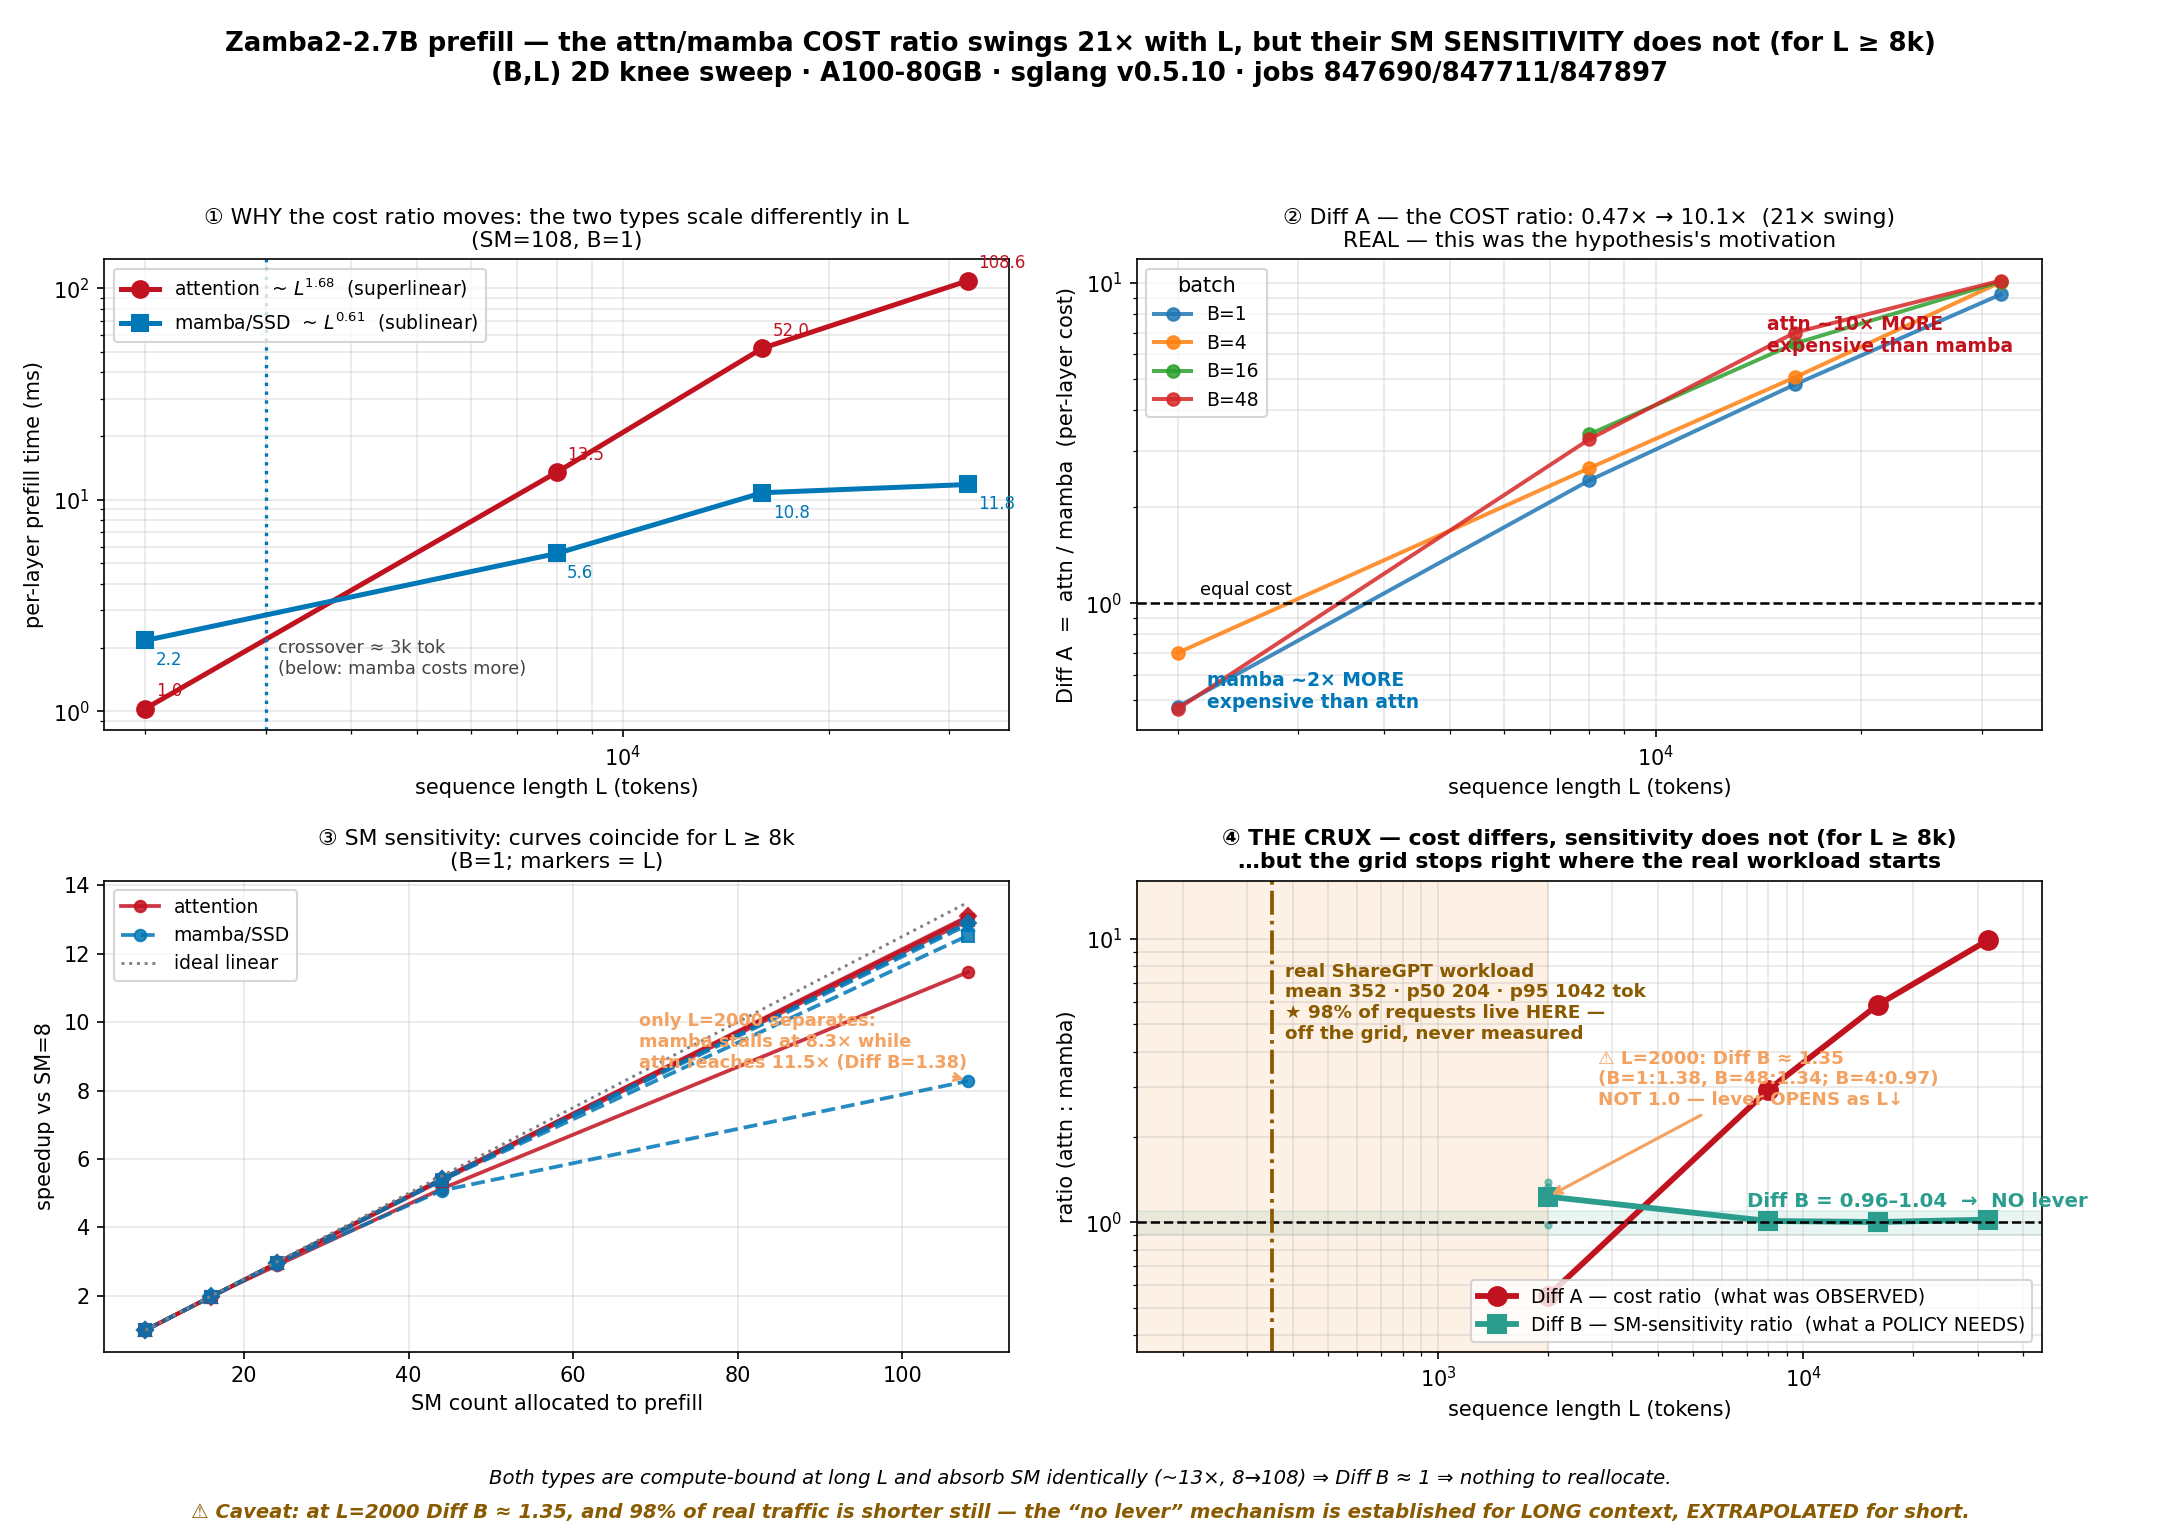
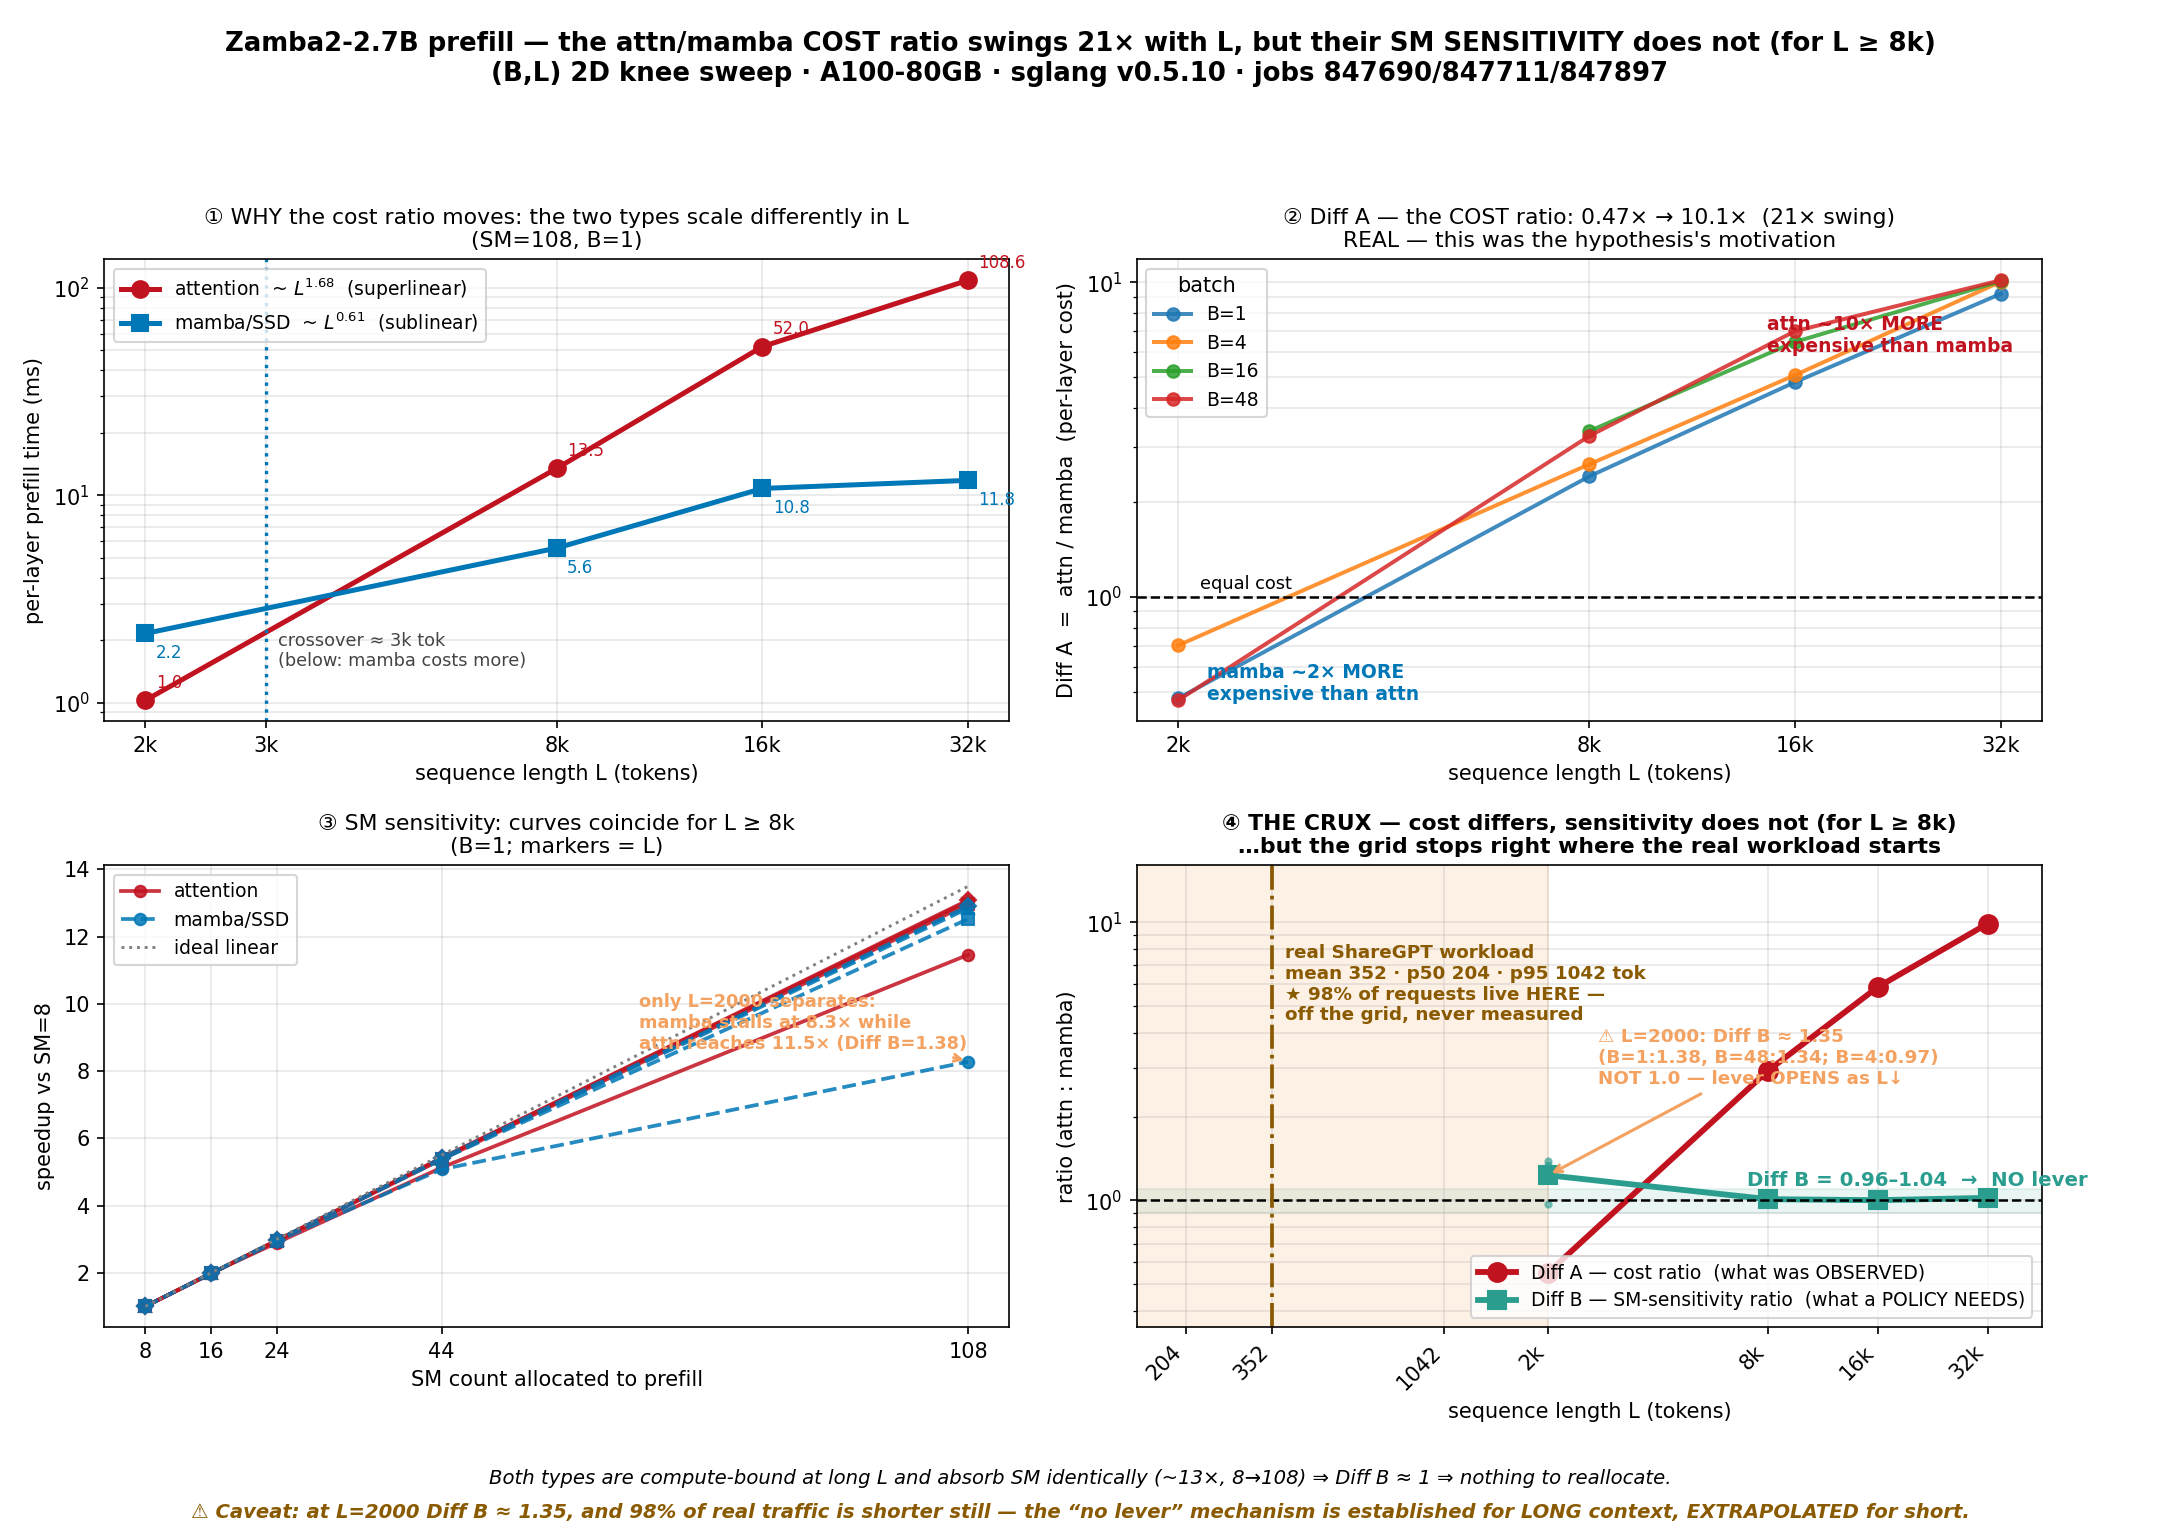
Enhance plotting functionality in plot_diffA_vs_diffB.py with custom tick formatting

diff --git a/workspace/engine-port/results/prefill_knee/plot_diffA_vs_diffB.py b/workspace/engine-port/results/prefill_knee/plot_diffA_vs_diffB.py
@@ -24,6 +24,18 @@ Source: knee2d_table.csv (jobs 847690/847711/847897), Zamba2-2.7B, A100-80GB, sg
 import csv, collections, math
 import matplotlib; matplotlib.use("Agg")
 import matplotlib.pyplot as plt
+from matplotlib.ticker import FixedLocator, NullLocator, FuncFormatter
+
+def _fmt(v):
+    return f"{v/1000:g}k" if v >= 1000 and v % 1000 == 0 else f"{v:g}"
+
+def tick_all(ax, vals, rot=0):
+    """Tick every measured anchor (log axes otherwise drop most of them)."""
+    ax.xaxis.set_major_locator(FixedLocator(list(vals)))
+    ax.xaxis.set_minor_locator(NullLocator())
+    ax.xaxis.set_major_formatter(FuncFormatter(lambda v, p: _fmt(v)))
+    if rot:
+        plt.setp(ax.get_xticklabels(), rotation=rot, ha="right")
 
 rows = list(csv.DictReader(open("knee2d_table.csv")))
 for r in rows:
@@ -64,6 +76,7 @@ a.annotate("crossover ≈ 3k tok\n(below: mamba costs more)", (3000, 1.5), fonts
 a.set_xlabel("sequence length L (tokens)"); a.set_ylabel("per-layer prefill time (ms)")
 a.set_title("① WHY the cost ratio moves: the two types scale differently in L\n(SM=108, B=1)", fontsize=10.5)
 a.grid(alpha=.3, which="both"); a.legend(fontsize=9, loc="upper left")
+tick_all(a, sorted(set(Ls) | {3000}))
 
 # ---- panel 2: Diff A vs L (the recalled result) ------------------------------
 a = ax[0][1]
@@ -80,6 +93,7 @@ a.set_xscale("log"); a.set_yscale("log")
 a.set_xlabel("sequence length L (tokens)"); a.set_ylabel("Diff A  =  attn / mamba  (per-layer cost)")
 a.set_title("② Diff A — the COST ratio: 0.47× → 10.1×  (21× swing)\nREAL — this was the hypothesis's motivation", fontsize=10.5)
 a.grid(alpha=.3, which="both"); a.legend(fontsize=9, title="batch", loc="upper left")
+tick_all(a, Ls)
 
 # ---- panel 3: SM speedup curves ---------------------------------------------
 a = ax[1][0]
@@ -96,6 +110,7 @@ a.annotate("only L=2000 separates:\nmamba stalls at 8.3× while\nattn reaches 11
 a.set_xlabel("SM count allocated to prefill"); a.set_ylabel("speedup vs SM=8")
 a.set_title("③ SM sensitivity: curves coincide for L ≥ 8k\n(B=1; markers = L)", fontsize=10.5)
 a.grid(alpha=.3); a.legend(fontsize=9, loc="upper left")
+tick_all(a, sorted({s for d in cell.values() for s in d}))
 
 # ---- panel 4: THE CRUX + the honest caveats ---------------------------------
 a = a4 = ax[1][1]
@@ -126,6 +141,7 @@ a.set_xlabel("sequence length L (tokens)"); a.set_ylabel("ratio (attn : mamba)")
 a.set_title("④ THE CRUX — cost differs, sensitivity does not (for L ≥ 8k)\n…but the grid stops right where the real workload starts",
             fontsize=10.5, fontweight="bold")
 a.grid(alpha=.3, which="both"); a.legend(fontsize=9, loc="lower right")
+tick_all(a, sorted(set(Ls) | {SGPT_P50, SGPT_MEAN, SGPT_P95}), rot=45)
 
 fig.tight_layout(rect=[0, 0.055, 1, 0.935])
 fig.text(0.5, 0.030,
